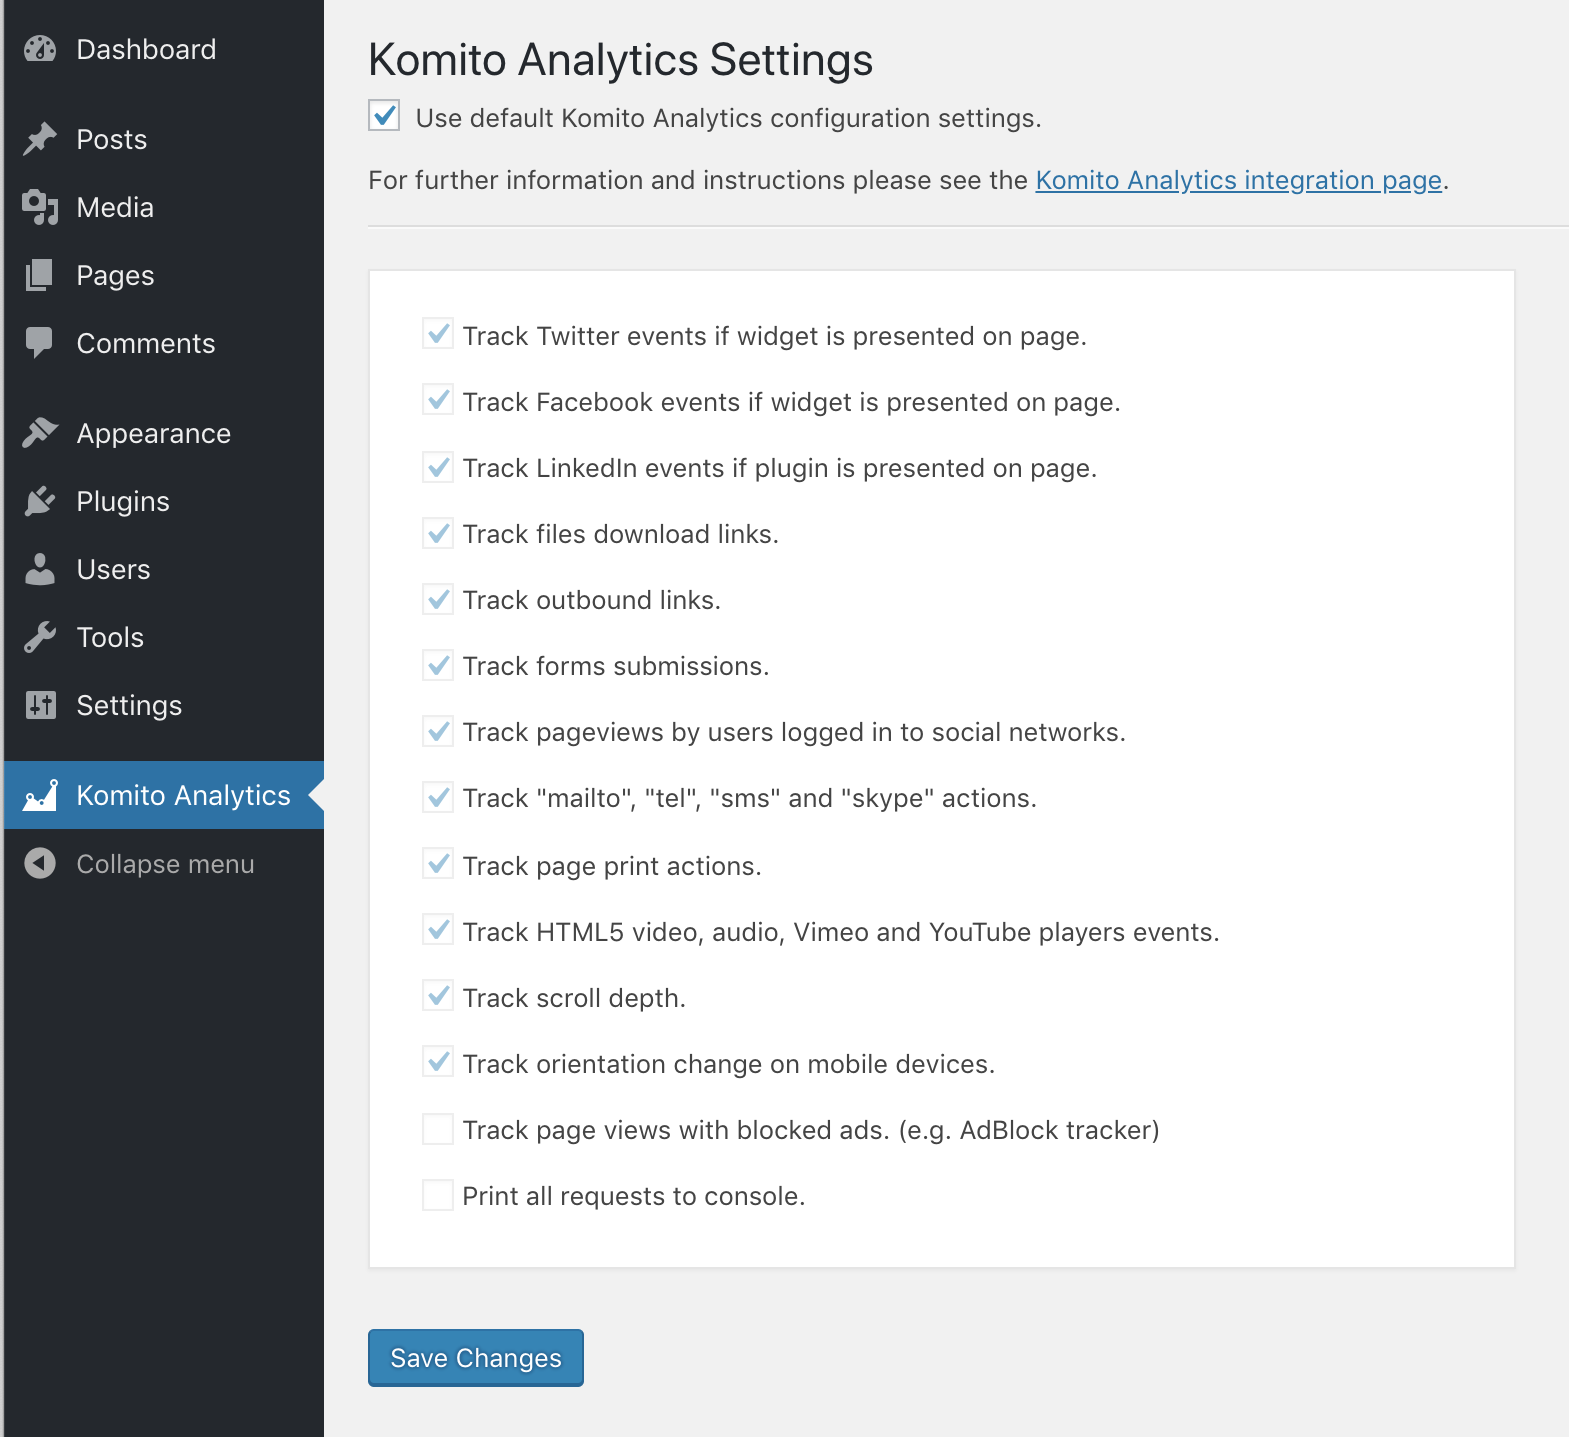
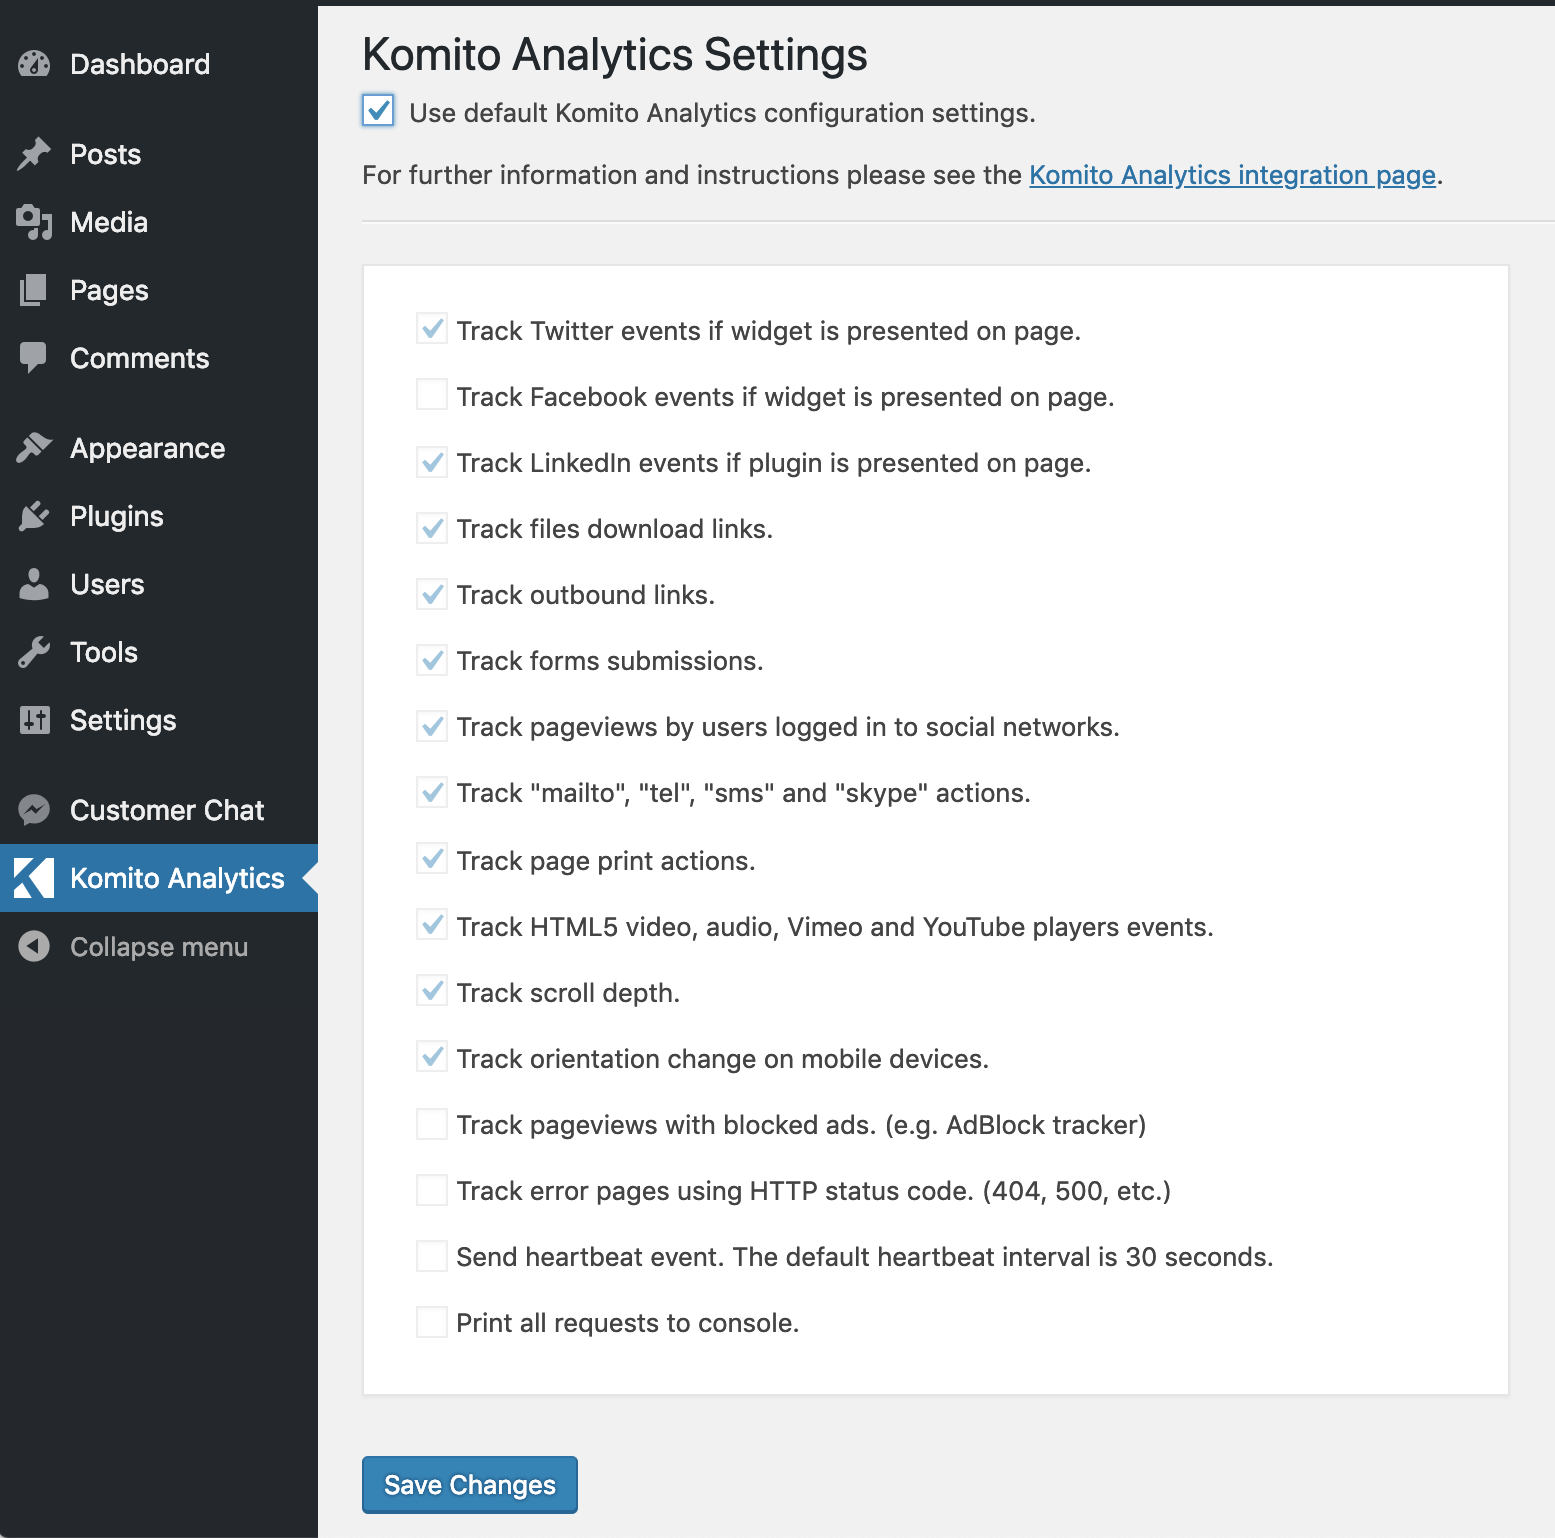
Added tracking error pages and sending heartbeat event.

diff --git a/trunk/komito-analytics.php b/trunk/komito-analytics.php
@@ -5,7 +5,7 @@
  * PHP version 5
  *
  * @package KomitoAnalytics
- * @version 1.0.2
+ * @version 1.1.2
  * @license http://www.apache.org/licenses/LICENSE-2.0  Apache License 2.0
  * @author Valentin Podkamenyi <valentin@dtm.io>
  * @author Komito Analytics <support@komito.net>
@@ -17,7 +17,7 @@
  * Plugin Name: Komito Analytics
  * Plugin URI: https://komito.net
  * Description: Komito Analytics is an enhancement for the most popular web analytics software.
- * Version: 1.0.2
+ * Version: 1.1.2
  * Author: Datamart
  * Author URI: https://profiles.wordpress.org/datamart
  * License: Apache License 2.0
@@ -43,7 +43,7 @@ function get_komito_options() {
             'description' => __('Track Twitter events if widget is presented on page.', 'komito-analytics')),
 
         'trackFacebook' => array(
-            'default' => 1, 'type' => 'integer',
+            'default' => 0, 'type' => 'integer',
             'description' => __('Track Facebook events if widget is presented on page.', 'komito-analytics')),
 
         'trackLinkedIn' => array(
@@ -89,6 +89,14 @@ function get_komito_options() {
         'trackAdblock' => array(
             'default' => 0, 'type' => 'integer',
             'description' => __('Track pageviews with blocked ads. (e.g. AdBlock tracker)', 'komito-analytics')),
+
+        'trackErrorPages' => array(
+            'default' => 0, 'type' => 'integer',
+            'description' => __('Track error pages using HTTP status code. (404, 500, etc.)', 'komito-analytics')),
+
+        'sendHeartbeat' => array(
+            'default' => 0, 'type' => 'integer',
+            'description' => __('Send heartbeat event. The default heartbeat interval is 30 seconds.', 'komito-analytics')),
 
         'debugMode' => array(
             'default' => 0, 'type' => 'integer',

diff --git a/README.md b/README.md
@@ -33,6 +33,11 @@ If you would prefer to do things manually then follow these instructions:
 ## Changelog
 
 
+** 1.1.2 **
+* Added tracking error pages
+* Added sending heartbeat event
+* Changed defaults to '0' for Facebook events.
+
 ** 1.0.2 **
 * Updated menu icon
 
